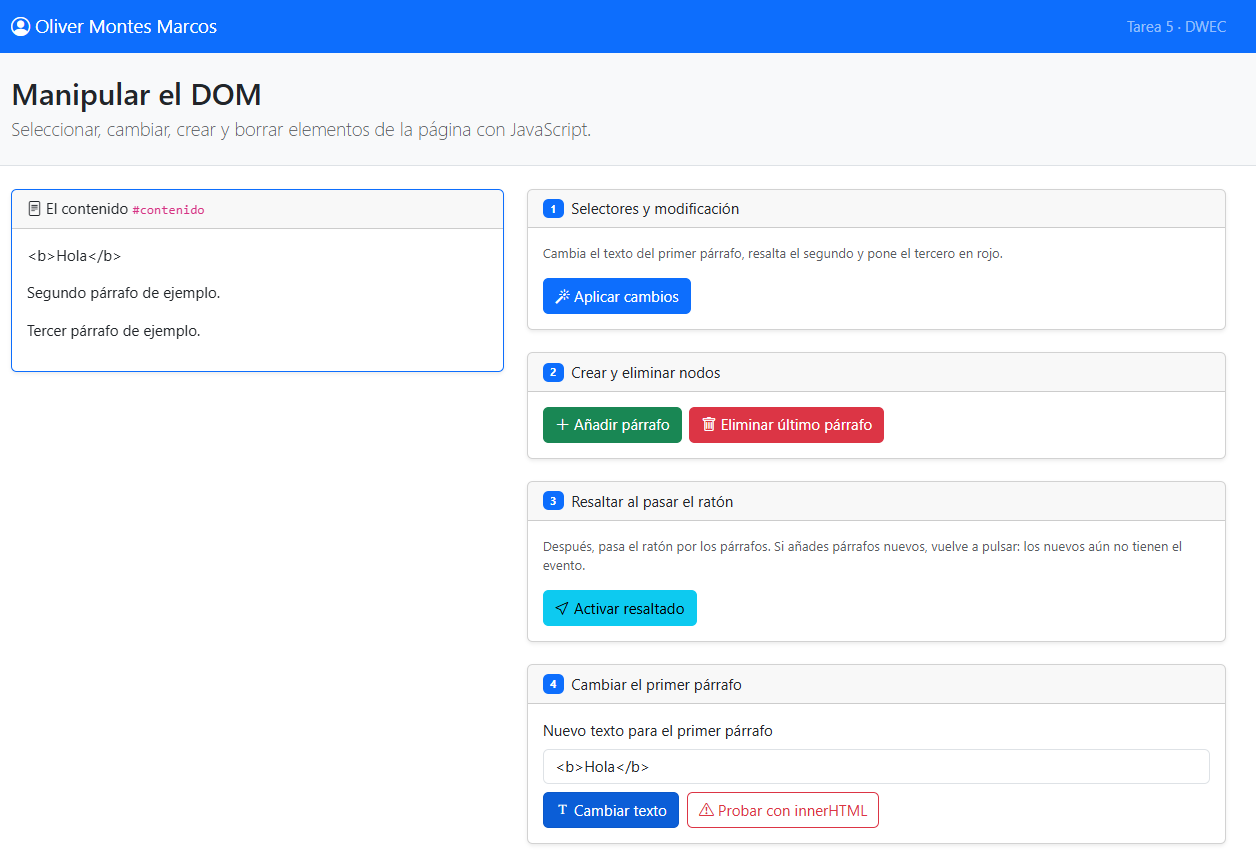
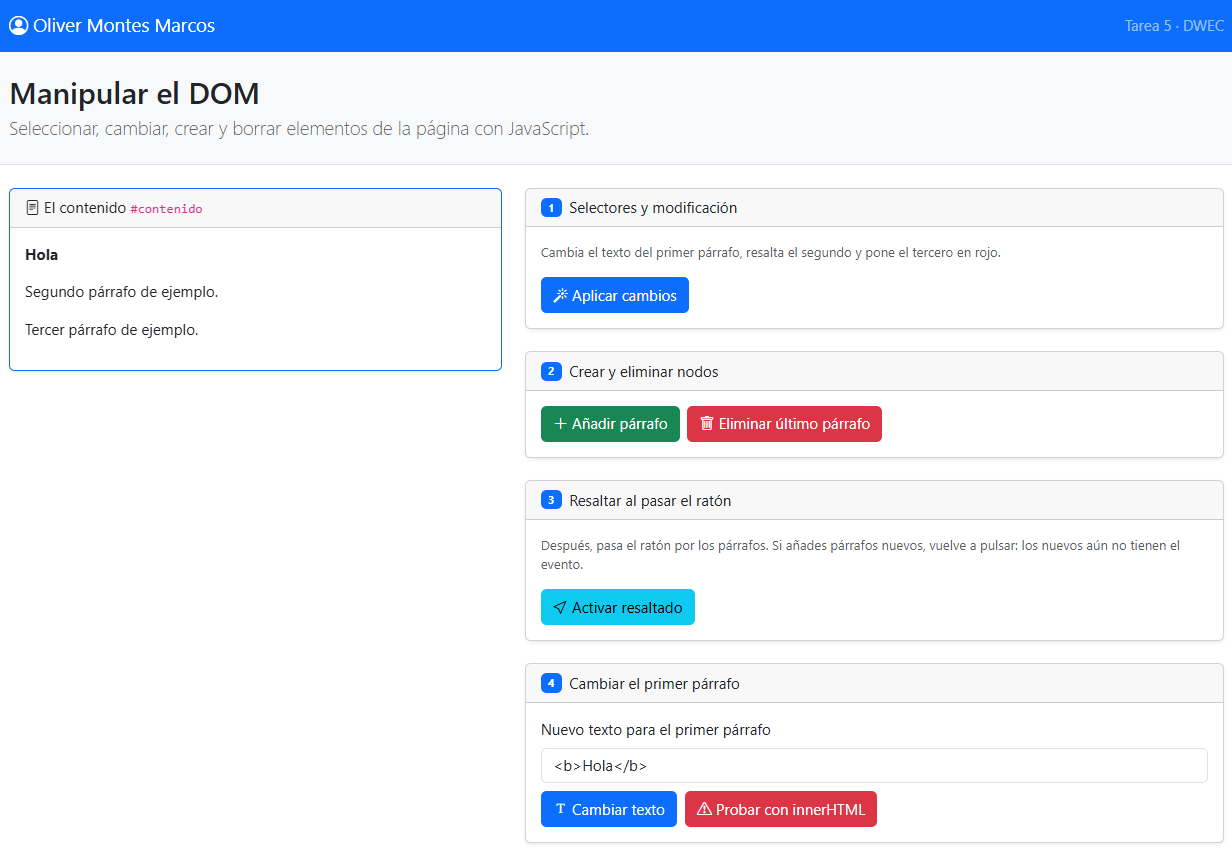
readme leves modificaciones

diff --git a/tema05/README.md b/tema05/README.md
@@ -2,14 +2,6 @@
 
 **Autor:** Oliver Montes Marcos · Desarrollo Web en Entorno Cliente (DWEC) · 2.º DAW · Curso 2026-27
 
-> **Plantilla de la tarea 5.** Cómo usarla:
->
-> 1. Copia esta carpeta en tu repositorio de DWEC y cámbiale el nombre a tema05.
-> 2. index.html ya está maquetado: es la página que vas a manipular. No cambies los id ni las clases que usa el JavaScript.
-> 3. js/app.js trae una función por botón con TODO, y modelos en los ejercicios 1, 3 y 6.
-> 4. Sustituye las imágenes de capturas/ por las tuyas, **con el mismo nombre**.
-> 5. Todo lo que va entre [corchetes] es un hueco: cámbialo por lo tuyo. Al terminar, borra este aviso.
-
 Esta carpeta contiene una pagina con seis ejercicios de manipulacion del DOM y del BOM con JavaScript. Para probarla, abre la carpeta en VS Code, pulsa **Go Live** y usa los botones con la consola abierta (F12).
 
 ## Capturas
@@ -30,20 +22,20 @@ El primer parrafo cambia de texto (getElementById), el segundo se resalta en ama
 
 ![Un párrafo resaltado con el ratón encima](capturas/c-ej3-resaltado.png)
 
-Esta resaltado el parrafo bajo el raton. Los parrafos que se añaden despues de pulsar <Activar resaltado> no se resaltan hasta volver a pulsarlo, porque el evento solo se asigna a los parrafos que existen en ese momento.
+Esta resaltado el parrafo bajo el raton. Los parrafos que se añaden despues de pulsar <<Activar resaltado>> no se resaltan hasta volver a pulsarlo, porque el evento solo se asigna a los parrafos que existen en ese momento.
 
 ### d) Ejercicio 4: `<b>hola</b>` con innerHTML
 
+<img src="capturas/d-ej4-textcontent.png" alt="El primer párrafo tras usar innerHTML" width="600">
 <img src="capturas/d-ej4-innerhtml.png" alt="El primer párrafo tras usar innerHTML" width="600">
-<img src="capturas/d-ej4.1-innerhtml.png" alt="El primer párrafo tras usar innerHTML" width="600">
 
-Con <Cambiar texto> (textContent) el parrafo muestra la etiqueta literal, <b>Sin inner</b>. Con <Probar con innerHTML> el navegador la interpreta y muestra **Con inner** en negrita. 
+Con <<Cambiar texto>> (textContent) el parrafo muestra la etiqueta literal, <<b>Sin inner</b>>. Con <<Probar con innerHTML>> el navegador la interpreta y muestra **Con inner** en negrita. 
 
 ### e) Ejercicio 5: la lista de tareas
 
 ![La lista con tres tareas y una marcada](capturas/e-ej5-lista.png)
 
-Tres tareas, una marcada, antes de pulsar <Borrar completada>, el contador marca 3.
+Tres tareas, una marcada, antes de pulsar <<Borrar completada>>, el contador marca 3.
 
 ### f) Ejercicio 6: los datos de la ventana en el móvil
 
@@ -54,7 +46,7 @@ En el móvil (440 px de ancho) sale el punto de corte xs; en mi ordenador sale x
 
 ## Reflexión
 
-textContent inserta lo que se le da como texto plano, mientras que innerHTML lo interpreta como HTML. Con <b>hola</b>, el primero muestra las etiquetas tal cual y el segundo escribe «hola» en negrita. Por eso no se debe usar innerHTML con lo que escribe el usuario: podría meter etiquetas o scripts que se ejecuten en la página (ataque XSS). Para mostrar texto de un usuario es más seguro textContent, y por eso las tareas del ejercicio 5 se crean con createElement y textContent.
+textContent inserta lo que se le da como texto plano, mientras que innerHTML lo interpreta como HTML. Con <<b>hola</b>>, el primero muestra las etiquetas tal cual y el segundo escribe «hola» en negrita. Por eso no se debe usar innerHTML con lo que escribe el usuario: podría meter etiquetas o scripts que se ejecuten en la página (ataque XSS). Para mostrar texto de un usuario es más seguro textContent, y por eso las tareas del ejercicio 5 se crean con createElement y textContent.
 
 ## Fuentes
 
